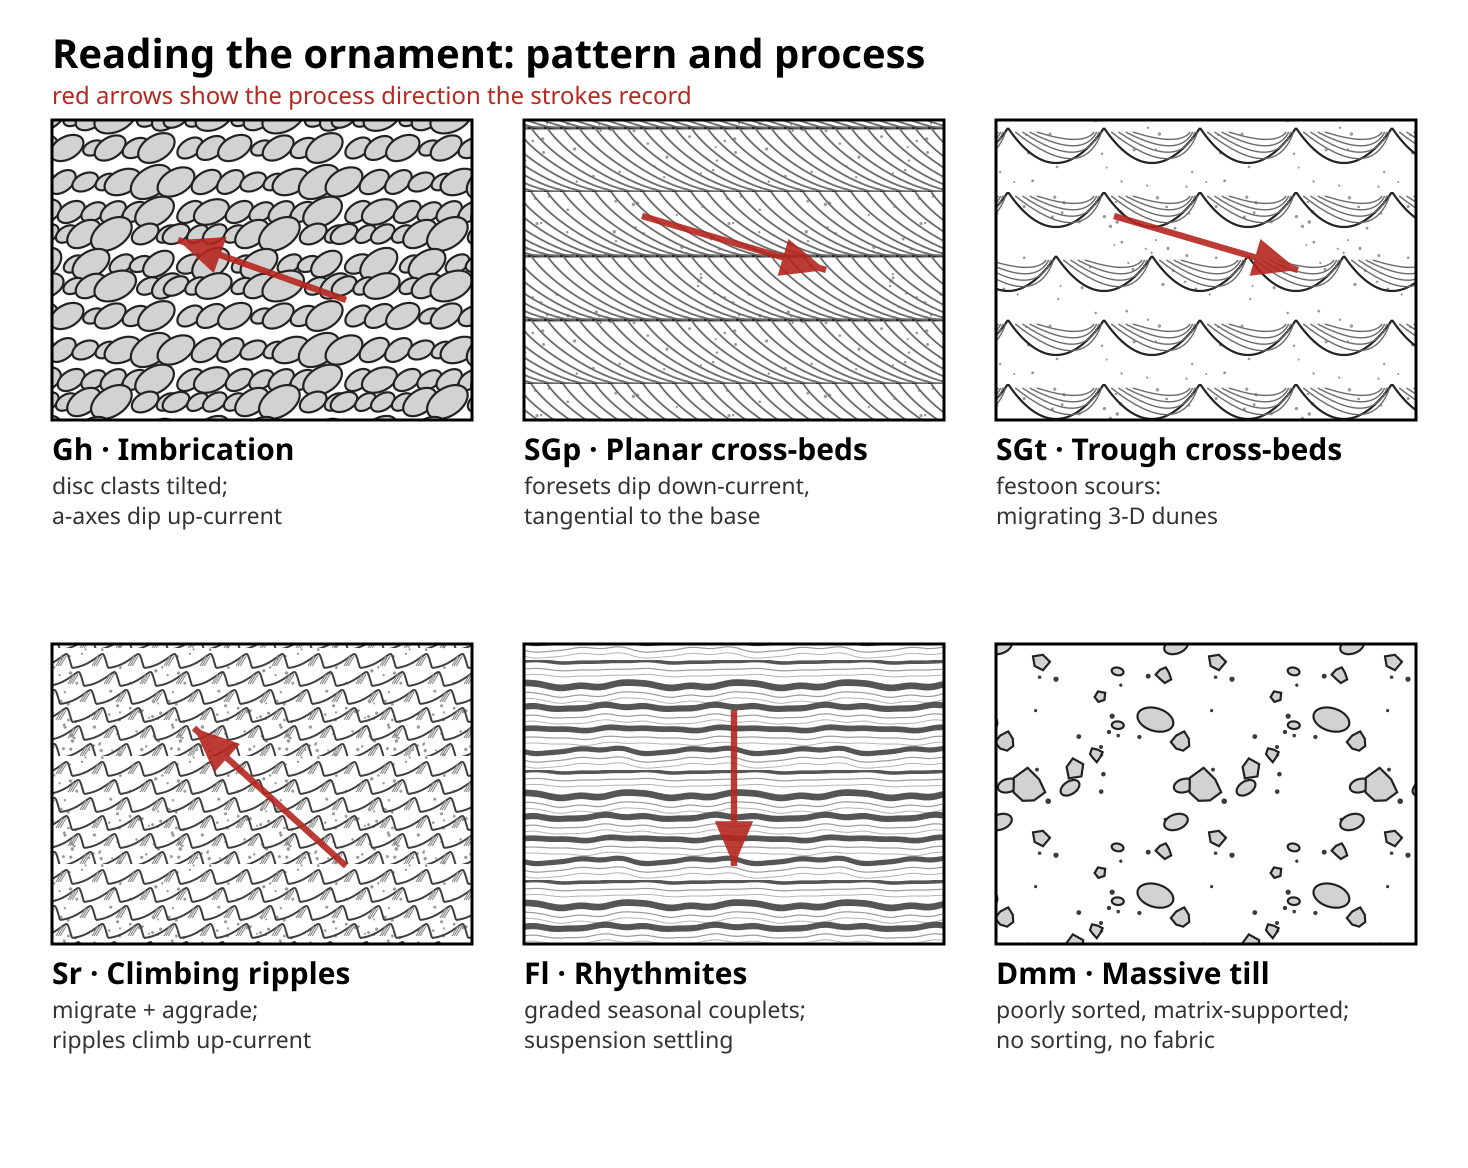
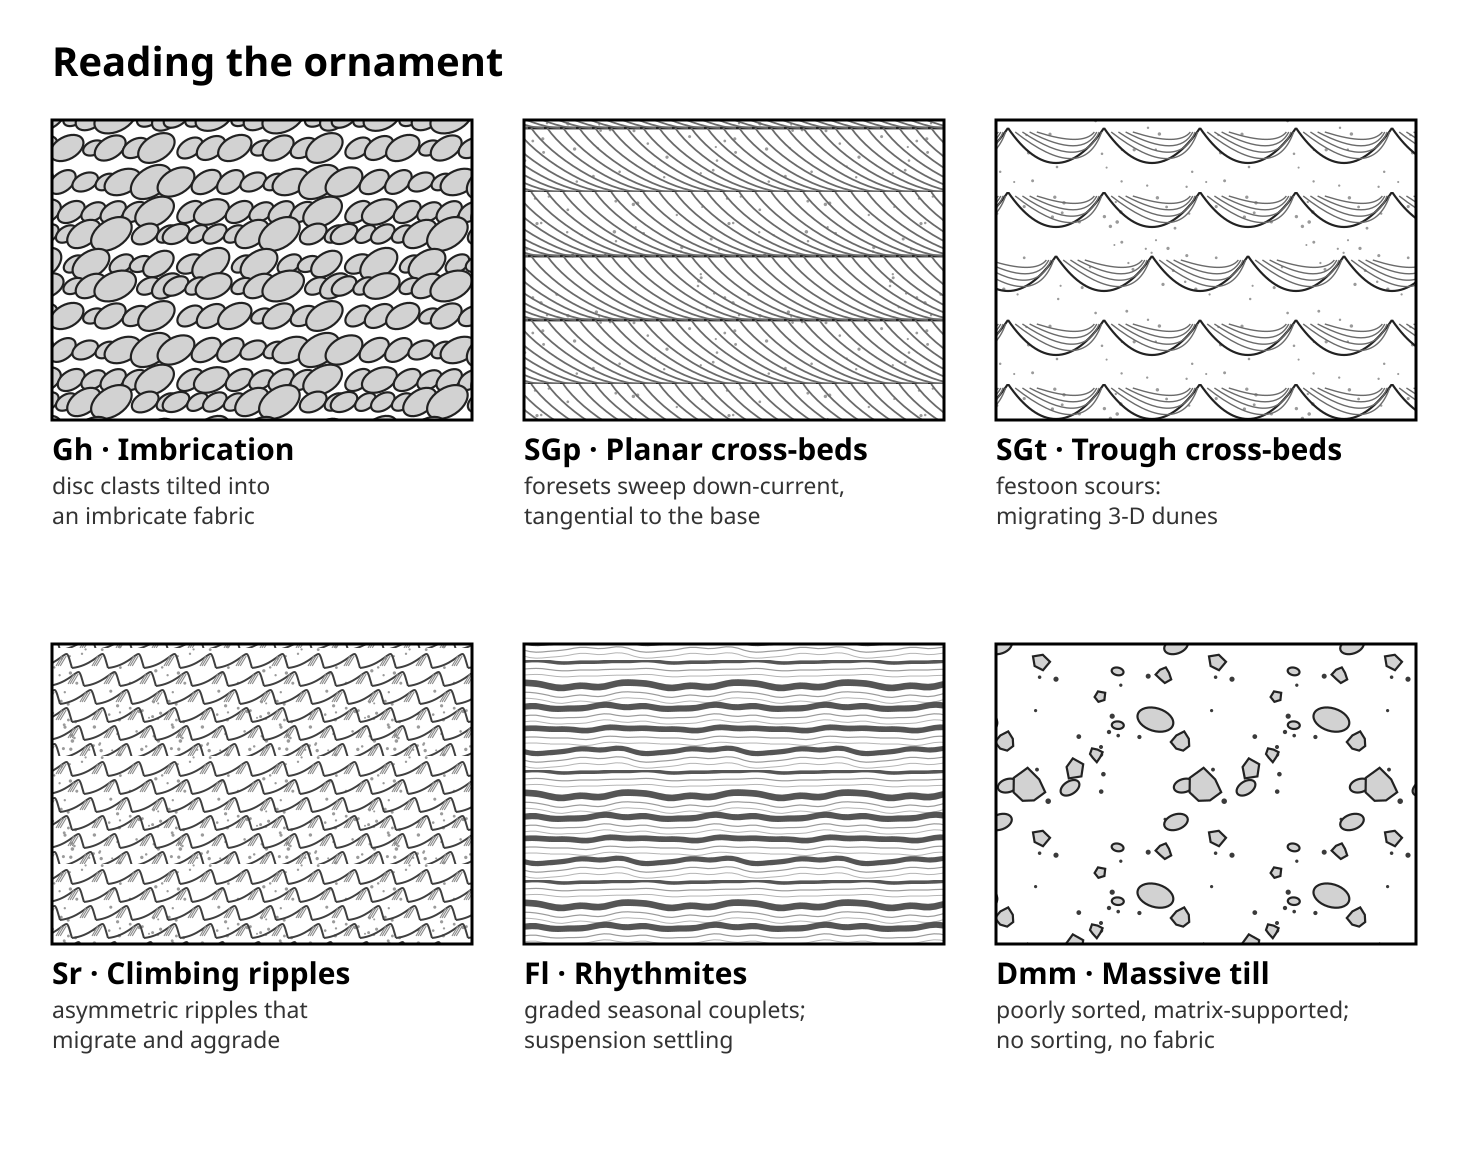
Remove directional arrows from explanatory plate (avoid directional error)

diff --git a/glacial_patterns/build.py b/glacial_patterns/build.py
@@ -150,39 +150,27 @@ def inkscape_palette(rows, path=None, ncols=6):
     rasterize(path, path.replace(".svg", ".png"), min(1800, tw * 2))
 
 
-# process annotations: (code, title, caption, arrow) where arrow is one of
-# 'flow-left' 'flow-right' 'climb' 'settle' 'fabric' or None. Kept geologically
-# honest - foreset/ripple dip = transport; imbricate a-axes dip up-current.
-# caption lines separated by '|' (each rendered on its own row)
-# flow is left-to-right (down-current = +x); down-current arrows point right,
-# climbing ripples climb up-current (up-left).
+# (code, title, caption) for the teaching plate; caption lines split on '|'.
+# No directional arrows - they invite error (e.g. imbrication sense); the
+# ornament itself carries the direction.
 EXPLAIN = [
-    ("Gh",  "Imbrication",       "disc clasts tilted;|a-axes dip up-current", "fabric"),
-    ("SGp", "Planar cross-beds", "foresets dip down-current,|tangential to the base", "flow-right"),
-    ("SGt", "Trough cross-beds", "festoon scours:|migrating 3-D dunes", "flow-right"),
-    ("Sr",  "Climbing ripples",  "migrate + aggrade;|ripples climb up-current", "climb"),
-    ("Fl",  "Rhythmites",        "graded seasonal couplets;|suspension settling", "settle"),
-    ("Dmm", "Massive till",      "poorly sorted, matrix-supported;|no sorting, no fabric", None),
+    ("Gh",  "Imbrication",       "disc clasts tilted into|an imbricate fabric"),
+    ("SGp", "Planar cross-beds", "foresets sweep down-current,|tangential to the base"),
+    ("SGt", "Trough cross-beds", "festoon scours:|migrating 3-D dunes"),
+    ("Sr",  "Climbing ripples",  "asymmetric ripples that|migrate and aggrade"),
+    ("Fl",  "Rhythmites",        "graded seasonal couplets;|suspension settling"),
+    ("Dmm", "Massive till",      "poorly sorted, matrix-supported;|no sorting, no fabric"),
 ]
-
-_ARROW = {                                 # (x1,y1,x2,y2) in a 0..W,0..H panel
-    "flow-right": lambda W, H: (W * 0.28, H * 0.32, W * 0.72, H * 0.50),
-    "climb":      lambda W, H: (W * 0.70, H * 0.74, W * 0.34, H * 0.28),
-    "settle":     lambda W, H: (W * 0.50, H * 0.22, W * 0.50, H * 0.74),
-    "fabric":     lambda W, H: (W * 0.70, H * 0.60, W * 0.30, H * 0.40),
-}
 
 
 def explanatory_plate(rows_unused=None, path=None, ncols=3):
-    """A teaching plate: key facies with a process arrow and a caption, showing
-    what each ornament records. Highlights the pattern-and-process design."""
+    """A teaching plate: key facies with a caption on what each ornament
+    records. No arrows - the ornament itself conveys form and process."""
     path = path or os.path.join(ROOT, "explanatory_plate.svg")
     W, H, gx, gy, top, caph = 210, 150, 26, 66, 60, 46
     cellh = H + caph
     tiles, defs, body = set(), [], []
-    defs.append('<marker id="ah" markerWidth="9" markerHeight="9" refX="7" refY="3" '
-                'orient="auto"><path d="M0,0 L7,3 L0,6 Z" fill="#b5271f"/></marker>')
-    for i, (code, title, caption, arrow) in enumerate(EXPLAIN):
+    for i, (code, title, caption) in enumerate(EXPLAIN):
         fn = next(f for c, f, *_ in FACIES if c == code)
         tile, d = pattern_defs(code, fn)
         tiles.add(tile)
@@ -191,11 +179,6 @@ def explanatory_plate(rows_unused=None, path=None, ncols=3):
         x, y = gx + col * (W + gx), top + row * (cellh + gy)
         body.append(f'<rect x="{x}" y="{y}" width="{W}" height="{H}" '
                     f'fill="url(#pat_{code})" stroke="black" stroke-width="1.5"/>')
-        if arrow:
-            ax1, ay1, ax2, ay2 = _ARROW[arrow](W, H)
-            body.append(f'<line x1="{x+ax1:.0f}" y1="{y+ay1:.0f}" x2="{x+ax2:.0f}" '
-                        f'y2="{y+ay2:.0f}" stroke="#b5271f" stroke-width="3.2" '
-                        f'marker-end="url(#ah)" opacity="0.9"/>')
         body.append(f'<text x="{x}" y="{y+H+20}" font-family="sans-serif" '
                     f'font-size="15" font-weight="bold">{code} · {title}</text>')
         for li, line in enumerate(caption.split("|")):
@@ -209,10 +192,8 @@ def explanatory_plate(rows_unused=None, path=None, ncols=3):
     svg = (f'<svg xmlns="http://www.w3.org/2000/svg" width="{tw}" height="{th}" '
            f'viewBox="0 0 {tw} {th}">\n<defs>{clips}{"".join(defs)}</defs>\n'
            f'<rect width="100%" height="100%" fill="white"/>\n'
-           f'<text x="{gx}" y="34" font-family="sans-serif" font-size="20" '
-           f'font-weight="bold">Reading the ornament: pattern and process</text>\n'
-           f'<text x="{gx}" y="52" font-family="sans-serif" font-size="12" '
-           f'fill="#b5271f">red arrows show the process direction the strokes record</text>\n'
+           f'<text x="{gx}" y="38" font-family="sans-serif" font-size="20" '
+           f'font-weight="bold">Reading the ornament</text>\n'
            + "\n".join(body) + "\n</svg>\n")
     open(path, "w").write(svg)
     rasterize(path, path.replace(".svg", ".png"), min(1600, tw * 2))